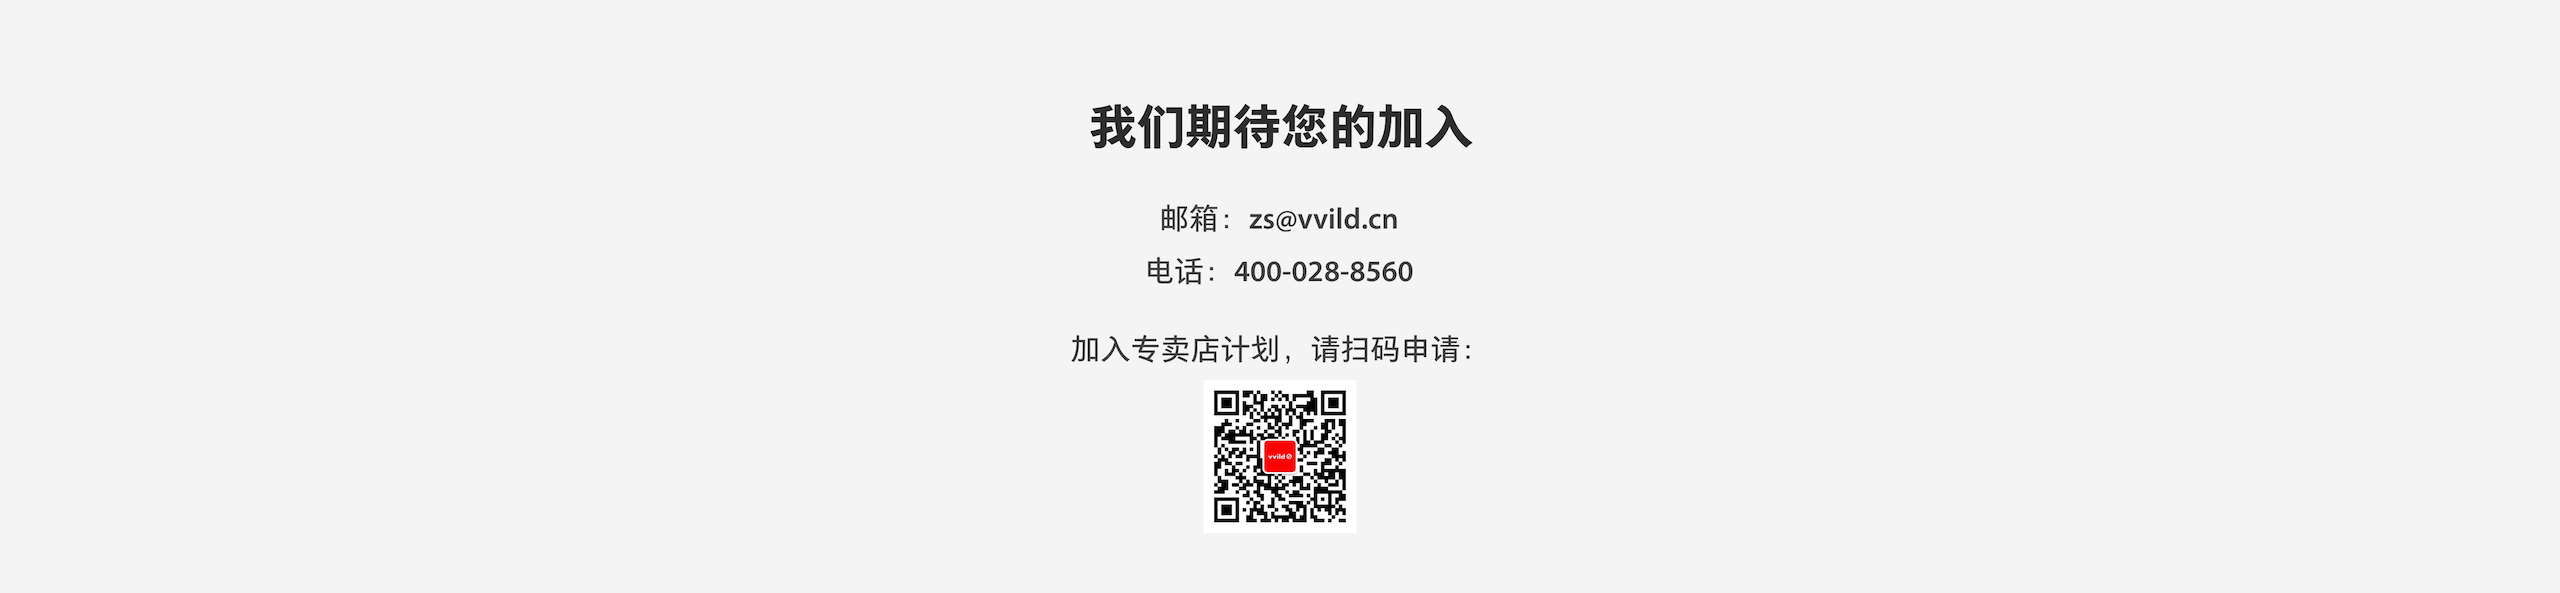
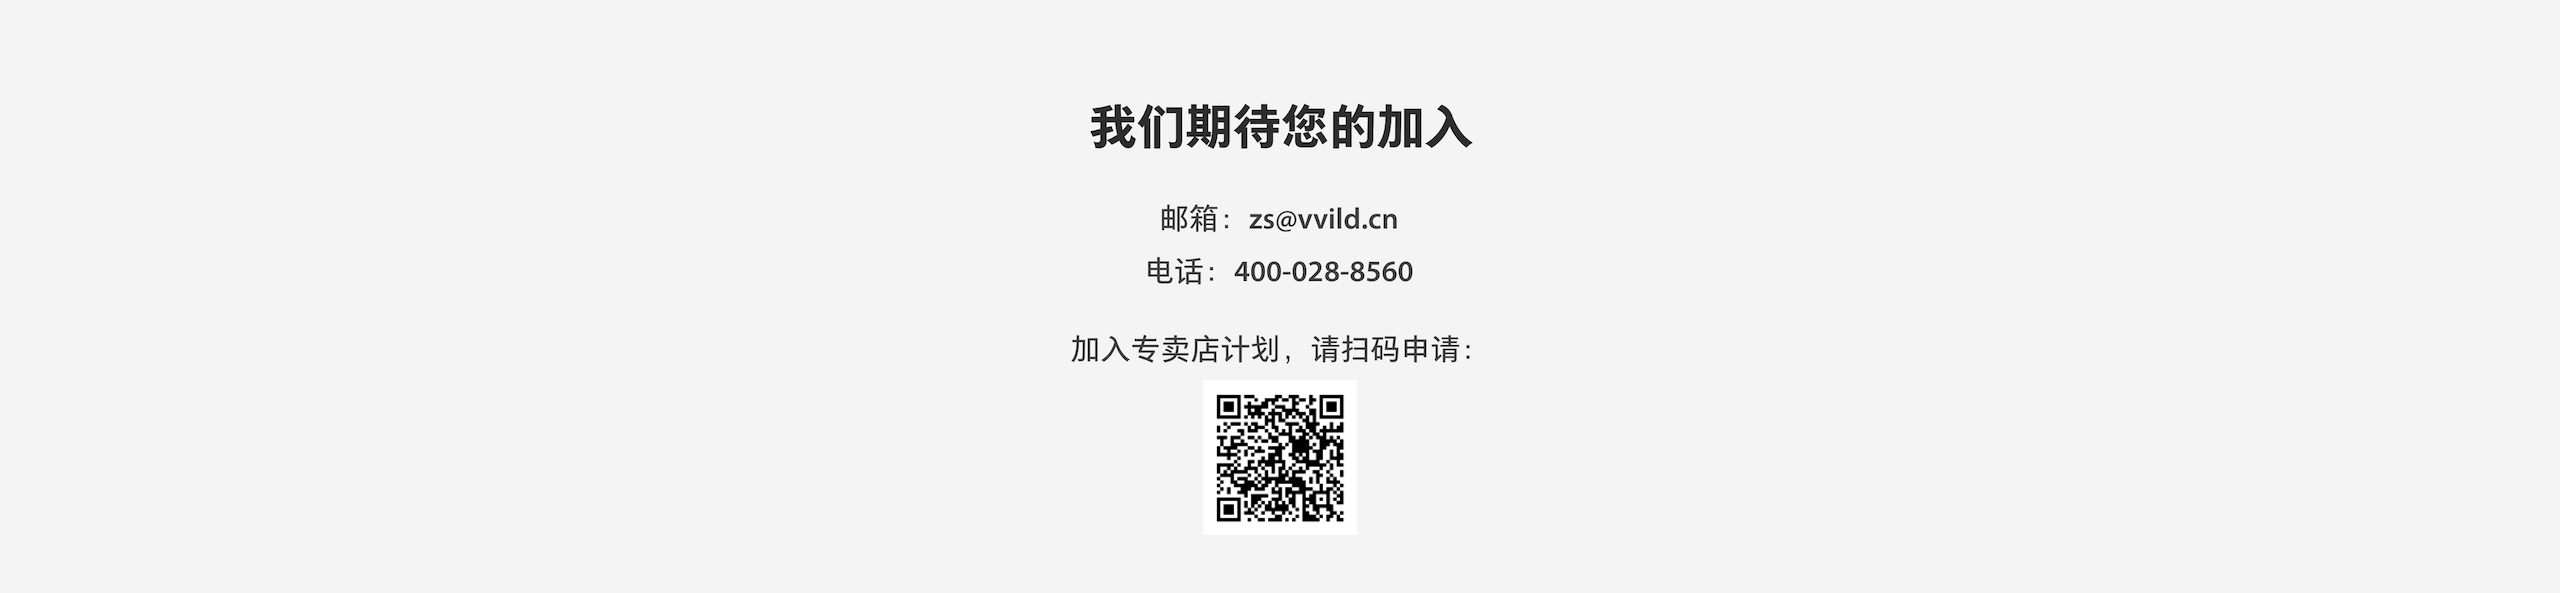
fix: update qrcode and company infos.

Changed region(s): [[0.4688, 0.6374, 0.5312, 0.8803]]

diff --git a/pages/index.vue b/pages/index.vue
@@ -176,7 +176,7 @@
       </ul>
       <div class="text-opc">
         <div class="introduce">
-          <p>成都小野未来科技有限公司是一家雾化电子烟制造与销售公司。创始团队来自华为、锤子科技等知名品牌，团队具有丰富的电子消费品设计、生产、营销及销售经验。</p>
+          <p>深圳小野科技有限公司是一家雾化电子烟制造与销售公司。创始团队来自华为、锤子科技等知名品牌，团队具有丰富的电子消费品设计、生产、营销及销售经验。</p>
           <p>未来，我们有信心在在全球 5600 亿美金的烟草市场中，凭借自身优越的产品设计、生产研发、市场营销等能力，在巨大的行业内掀起风浪，成为电子烟领域的行业佼佼者。</p>
         </div>
         <h4 class="subtitle">我们的使命和愿景</h4>
@@ -202,7 +202,7 @@
         <li>符合国家食品安全标准 “食品中总砷及无机砷试验”</li>
       </ul>
       <h3 class="text-opc">未成年人禁用提醒</h3>
-      <h4 class="text-opc">成都小野未来科技坚持遵守国家市场监督管理总局、国家烟草专卖局发布的《关于禁止向未成年人出售电子烟的通告》，不会向未成年人出售电子烟产品。</h4>
+      <h4 class="text-opc">深圳小野科技坚持遵守国家市场监督管理总局、国家烟草专卖局发布的《关于禁止向未成年人出售电子烟的通告》，不会向未成年人出售电子烟产品。</h4>
       <h5 class="text-opc">特别提醒：电子烟属于尼古丁制品，未成年人禁止使用，非吸烟者请勿尝试。孕妇及哺乳期妇女、心血管及呼吸道相关疾病患者禁止使用；请根据自身情况合理使用，若出现不适反应，请立即停止使用；</h5>
       <h5 class="text-opc">请遵循国家法律法规，请勿在公共场合及明确标明禁止吸烟的场所使用电子烟及相关产品。</h5>
     </div>

diff --git a/components/footer.vue b/components/footer.vue
@@ -8,16 +8,16 @@
 				</a>
 			</div> -->
 			<div class="footer-qrcode" :class="{'footer-qrcode-anim': shareLinkName == 'wechat'}"></div>
-      <router-link class="footer-title" to='/' tag='a'>成都小野未来科技有限公司</router-link>
+      <router-link class="footer-title" to='/' tag='a'>深圳小野科技有限公司</router-link>
 			<ul class="footer-info">
-				<li class="address">地址：成都市成华区东三环路二段航天路 6 号</li>
+				<li class="address">地址：深圳市南山区粤海街道滨海社区科园路 1002 号 A8 音乐大厦</li>
 				<li class="email">
 					<a href="mailto:bd@vvild.cn">商务合作：bd@vvild.cn</a>
 				</li>
 				<!-- <li class="tel">客服电话：400-086-3666</li> -->
 			</ul>
 			<ul class="copyright">
-				<li>Copyright © 2019, Chengdu Vvild Technology Co., Ltd. All Rights Reserved.</li>
+				<li>Copyright © 2019, Shenzhen vvild Technology Co., Ltd. All Rights Reserved.</li>
 				<li>
 					<a href="http://www.miibeian.gov.cn/" target="_blank">京 ICP 备 19018410 号 - 1	</a>
 				</li>

diff --git a/pages/aboutus.vue b/pages/aboutus.vue
@@ -14,7 +14,7 @@
           <template v-slot:card-list>
             <div class="card-content">
               <div class="introduce">
-                <p>成都小野未来科技有限公司是一家雾化电子烟制造与销售公司。创始团队来自华为、锤子科技等知名品牌，团队具有丰富的电子消费品设计、生产、营销及销售经验。</p>
+                <p>深圳小野科技有限公司是一家雾化电子烟制造与销售公司。创始团队来自华为、锤子科技等知名品牌，团队具有丰富的电子消费品设计、生产、营销及销售经验。</p>
                 <p>未来，我们有信心在在全球 5600 亿美金的烟草市场中，凭借自身优越的产品设计、生产研发、市场营销等能力，在巨大的行业内掀起风浪，成为电子烟领域的行业佼佼者。</p>
               </div>
               <h4 class="subtitle">我们的使命和愿景</h4>
